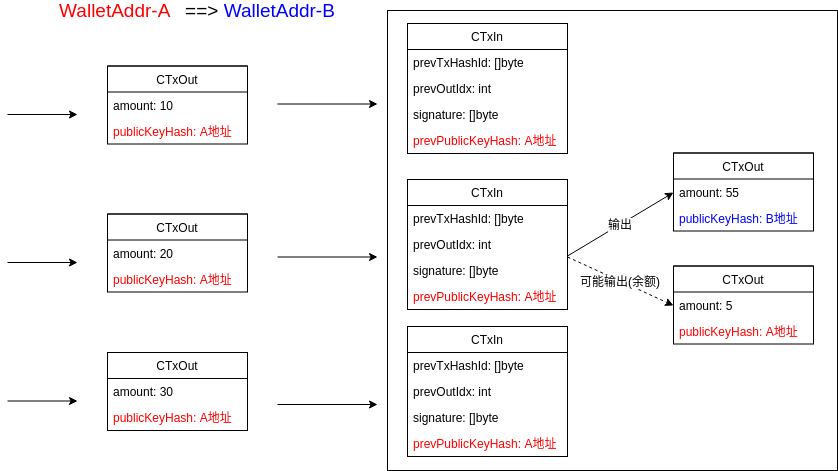
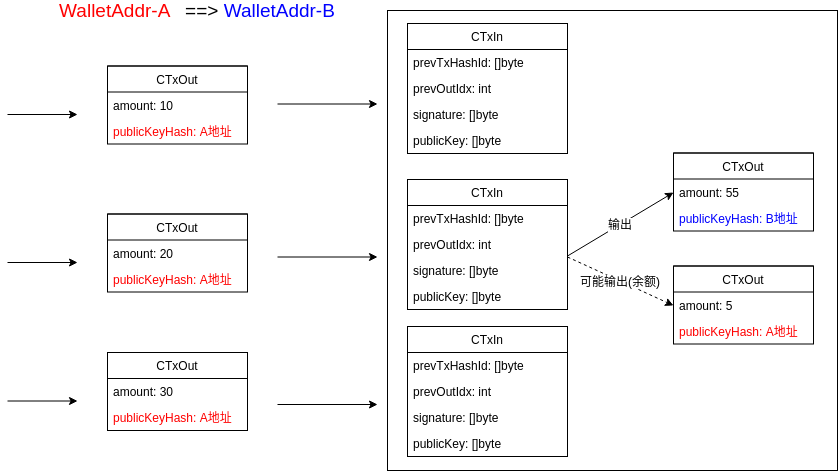
TxIn.PublicKey 有两种作用 1. 只是存储签名对应的公钥 2.生成独立的in的证书时所用

Changed region(s): [[0.4964, 0.2675, 0.6826, 0.327], [0.4964, 0.9214, 0.6826, 0.9512], [0.4964, 0.6242, 0.6826, 0.6539]]

diff --git a/recipes/address/tx.go b/recipes/address/tx.go
@@ -4,7 +4,6 @@ import (
 	"crypto/ecdsa"
 	"crypto/sha256"
 	"crypto/rand"
-	"math/big"
 	"bytes"
 	"encoding/gob"
 )
@@ -15,14 +14,18 @@ type Transaction struct {
 	TxOuts []TxOut
 }
 
-// 不包含in的 1. signature 2. prevPublicKeyHash
-// 生成交易时使用
+// 生成交易Id时使用
 func (tx *Transaction) hash() []byte {
+	// 去除 1. signature 2. PublicKey
 	txTrimCopy := tx.trimCopy()
+
+	// 去除 3. Id
 	txTrimCopy.Id = nil
 	return txTrimCopy.serialize()
 }
 
+// a. 生成交易Id时使用: 不包括1. signature 2. PublicKey 3. Id
+// b. 生成交易证书时使用: 不包括 signature 包括 publicKey(此时publicKey是prePublicKeyHash)
 func (tx *Transaction) serialize() []byte {
 	var encode bytes.Buffer
 	enc := gob.NewEncoder(&encode)
@@ -32,7 +35,7 @@ func (tx *Transaction) serialize() []byte {
 	return encode.Bytes()
 }
 
-// 去除in的 1. signature 2. prevPublicKeyHash
+// 去除in的 1. signature 2. PublicKey
 func (tx *Transaction) trimCopy() *Transaction {
 	txInsCopy := make([]TxIn, len(tx.TxIns))
 	TxOutsCopy := make([]TxOut, len(tx.TxOuts))
@@ -41,7 +44,7 @@ func (tx *Transaction) trimCopy() *Transaction {
 
 	for idx := range txInsCopy {
 		txInsCopy[idx].Signature = nil
-		txInsCopy[idx].PrevPublicKeyHash = nil
+		txInsCopy[idx].PublicKey = nil
 	}
 
 	idCopy := make([]byte, len(tx.Id))
@@ -53,11 +56,9 @@ func (tx *Transaction) trimCopy() *Transaction {
 func (tx *Transaction) signTxs(preTxMap map[string]*Transaction, privateKey *ecdsa.PrivateKey) {
 	curTxTrimCopy := tx.trimCopy()
 	for idx, in := range curTxTrimCopy.TxIns {
-		// 从来源处获得公钥哈希值
+		// PublicKey填为上一笔输出的prevPublicKeyHash,用来做特殊签名
 		prevPublicKeyHash := preTxMap[string(in.PrevTxHashId)].TxOuts[in.PrevOutIdx].PublicKeyHash
-
-		// 填充来区分交易
-		curTxTrimCopy.TxIns[idx].PrevPublicKeyHash = prevPublicKeyHash
+		curTxTrimCopy.TxIns[idx].PublicKey = prevPublicKeyHash
 
 		// 私钥签名(hash(证书)) -> 签名
 
@@ -74,20 +75,17 @@ func (tx *Transaction) signTxs(preTxMap map[string]*Transaction, privateKey *ecd
 		// 填充 // 输出
 		tx.TxIns[idx].Signature = signature
 
-		// 回退copy的prevPublicKeyHash
-		curTxTrimCopy.TxIns[idx].PrevPublicKeyHash = nil
+		// 回退为nil,不影响其他in的签名认证
+		curTxTrimCopy.TxIns[idx].PublicKey = nil
 	}
 }
 
-func (tx *Transaction) verifyTxs(preTxMap map[string]*Transaction, publicKey *ecdsa.PublicKey) bool {
+func (tx *Transaction) verifyTxs(preTxMap map[string]*Transaction) bool {
 	curTxTrimCopy := tx.trimCopy()
-
 	for idx, in := range curTxTrimCopy.TxIns {
-		// 从来源处获得公钥哈希值
+		// PublicKey填为上一笔输出的prevPublicKeyHash,用来做特殊签名
 		prevPublicKeyHash := preTxMap[string(in.PrevTxHashId)].TxOuts[in.PrevOutIdx].PublicKeyHash
-
-		// 填充来区分交易
-		curTxTrimCopy.TxIns[idx].PrevPublicKeyHash = prevPublicKeyHash
+		curTxTrimCopy.TxIns[idx].PublicKey = prevPublicKeyHash
 
 		// 公钥解密(签名) == hash(证书)
 
@@ -98,19 +96,18 @@ func (tx *Transaction) verifyTxs(preTxMap map[string]*Transaction, publicKey *ec
 		sha256Sum := sha256.Sum256([]byte(certificate))
 
 		// 签名
-		r := big.Int{}
-		s := big.Int{}
-		sigLen := len(tx.TxIns[idx].Signature)
-		r.SetBytes(tx.TxIns[idx].Signature[:(sigLen / 2)])
-		s.SetBytes(tx.TxIns[idx].Signature[(sigLen / 2):])
+		r, s := convertSignatureTors(tx.TxIns[idx].Signature)
+
+		// 公钥
+		publicKey := convertBytesToPublicKey(tx.TxIns[idx].PublicKey)
 
 		// 公钥验证
-		if !ecdsa.Verify(publicKey, sha256Sum[:], &r, &s) {
+		if !ecdsa.Verify(publicKey, sha256Sum[:], r, s) {
 			return false
 		}
 
-		// 回退copy的prevPublicKeyHash
-		curTxTrimCopy.TxIns[idx].PrevPublicKeyHash = nil
+		// 回退为nil,不影响其他in的签名认证
+		curTxTrimCopy.TxIns[idx].PublicKey = nil
 	}
 
 	return true
@@ -134,8 +131,8 @@ type TxIn struct {
 	// 本次交易的: 签名
 	Signature []byte
 
-	// 前一笔交易的: 输出到的公钥哈希
-	PrevPublicKeyHash []byte
+	// 1. 本次交易的: 公钥 2: 前一笔交易的: 输出到的公钥哈希(sign,verify时用)
+	PublicKey []byte
 }
 
 type TxOut struct {

diff --git a/recipes/address/wallet.go b/recipes/address/wallet.go
@@ -8,6 +8,7 @@ import (
 	"golang.org/x/crypto/ripemd160"
 	"github.com/yqsy/simplechain/base58"
 	"fmt"
+	"math/big"
 )
 
 const (
@@ -73,6 +74,33 @@ func getPublicKeyFromWalletAddress(walletAddress []byte) []byte {
 	return walletAddress[VersionLen : len(walletAddressDecoded)-CheckSumLen]
 }
 
+// ecdsa.PublicKey -> publicKeyBytes
+func convertPublicKeyToBytes(publicKey *ecdsa.PublicKey) []byte {
+	publicKeyBytes := append(publicKey.X.Bytes(), publicKey.Y.Bytes()...)
+	return publicKeyBytes
+}
+
+// publicKeyBytes -> ecdsa.PublicKey
+func convertBytesToPublicKey(publicKeyBytes []byte) *ecdsa.PublicKey {
+	x := big.Int{}
+	y := big.Int{}
+	keyLen := len(publicKeyBytes)
+	x.SetBytes(publicKeyBytes[:(keyLen / 2)])
+	y.SetBytes(publicKeyBytes[(keyLen / 2):])
+	curve := elliptic.P256()
+	return &ecdsa.PublicKey{Curve: curve, X: &x, Y: &y}
+}
+
+// signature -> r,s
+func convertSignatureTors(signature []byte) (*big.Int, *big.Int) {
+	r := &big.Int{}
+	s := &big.Int{}
+	sigLen := len(signature)
+	r.SetBytes(signature[:(sigLen / 2)])
+	s.SetBytes(signature[(sigLen / 2):])
+	return r, s
+}
+
 // 这里为了把所有的成员放置在一起
 // 实际上wallet只需要 1. privateKey 2. publicKey
 type Wallet struct {
@@ -106,40 +134,4 @@ func (wallet *Wallet) String() string {
 	result += fmt.Sprintf("publicKeyHashCheckSumCut: %x\n", wallet.publicKeyHashCheckSumCut)
 	result += fmt.Sprintf("walletAddress: %s\n", wallet.walletAddress)
 	return result
-}
-
-func main() {
-	// 假装3笔输出 作为资金来源
-	walletA := NewWallet()
-	txPreOutA1Tx := NewTransaction(nil, []TxOut{TxOut{10, walletA.publicKeyHash}})
-	txPreOutA2Tx := NewTransaction(nil, []TxOut{TxOut{20, walletA.publicKeyHash}})
-	txPreOutA3Tx := NewTransaction(nil, []TxOut{TxOut{30, walletA.publicKeyHash}})
-
-	// 55个币输出到钱包B, 5个币回退输出到钱包A
-
-	walletB := NewWallet()
-
-	// 构建当前交易的3个in和2个out
-	txInA1 := TxIn{txPreOutA1Tx.Id, 0, nil, nil}
-	txInA2 := TxIn{txPreOutA2Tx.Id, 0, nil, nil}
-	txInA3 := TxIn{txPreOutA3Tx.Id, 0, nil, nil}
-	txOutB1 := TxOut{55, walletB.publicKeyHash}
-	txOutA1 := TxOut{5, walletA.publicKeyHash}
-
-	// 当前的交易
-	curTx := NewTransaction([]TxIn{txInA1, txInA2, txInA3}, []TxOut{txOutB1, txOutA1})
-
-	// [txId]交易引用
-	preTxMap := make(map[string]*Transaction)
-	preTxMap[string(txPreOutA1Tx.Id)] = txPreOutA1Tx
-	preTxMap[string(txPreOutA2Tx.Id)] = txPreOutA2Tx
-	preTxMap[string(txPreOutA3Tx.Id)] = txPreOutA3Tx
-
-	// 签名
-	curTx.signTxs(preTxMap, walletA.privateKey)
-
-	// 验证
-	if !curTx.verifyTxs(preTxMap, walletA.publicKey) {
-		panic("verify error")
-	}
 }

diff --git a/recipes/address/tx_test.go b/recipes/address/tx_test.go
@@ -1,0 +1,39 @@
+package main
+
+import "testing"
+
+func TestTransaction(t *testing.T) {
+	// 假装3笔输出 作为资金来源
+	walletA := NewWallet()
+	txPreOutA1Tx := NewTransaction(nil, []TxOut{TxOut{10, walletA.publicKeyHash}})
+	txPreOutA2Tx := NewTransaction(nil, []TxOut{TxOut{20, walletA.publicKeyHash}})
+	txPreOutA3Tx := NewTransaction(nil, []TxOut{TxOut{30, walletA.publicKeyHash}})
+
+	// 55个币输出到钱包B, 5个币回退输出到钱包A
+
+	walletB := NewWallet()
+
+	// 构建当前交易的3个in和2个out
+	txInA1 := TxIn{txPreOutA1Tx.Id, 0, nil, convertPublicKeyToBytes(walletA.publicKey)}
+	txInA2 := TxIn{txPreOutA2Tx.Id, 0, nil, convertPublicKeyToBytes(walletA.publicKey)}
+	txInA3 := TxIn{txPreOutA3Tx.Id, 0, nil, convertPublicKeyToBytes(walletA.publicKey)}
+	txOutB1 := TxOut{55, walletB.publicKeyHash}
+	txOutA1 := TxOut{5, walletA.publicKeyHash}
+
+	// 当前的交易
+	curTx := NewTransaction([]TxIn{txInA1, txInA2, txInA3}, []TxOut{txOutB1, txOutA1})
+
+	// [txId]交易引用
+	preTxMap := make(map[string]*Transaction)
+	preTxMap[string(txPreOutA1Tx.Id)] = txPreOutA1Tx
+	preTxMap[string(txPreOutA2Tx.Id)] = txPreOutA2Tx
+	preTxMap[string(txPreOutA3Tx.Id)] = txPreOutA3Tx
+
+	// 签名
+	curTx.signTxs(preTxMap, walletA.privateKey)
+
+	// 验证
+	if !curTx.verifyTxs(preTxMap) {
+		t.Fatal("err")
+	}
+}

diff --git a/recipes/address/wallet_test.go b/recipes/address/wallet_test.go
@@ -1,0 +1,11 @@
+package main
+
+import (
+	"testing"
+	"fmt"
+)
+
+func TestWallet(t *testing.T) {
+	wallet := NewWallet()
+	fmt.Println(wallet)
+}
